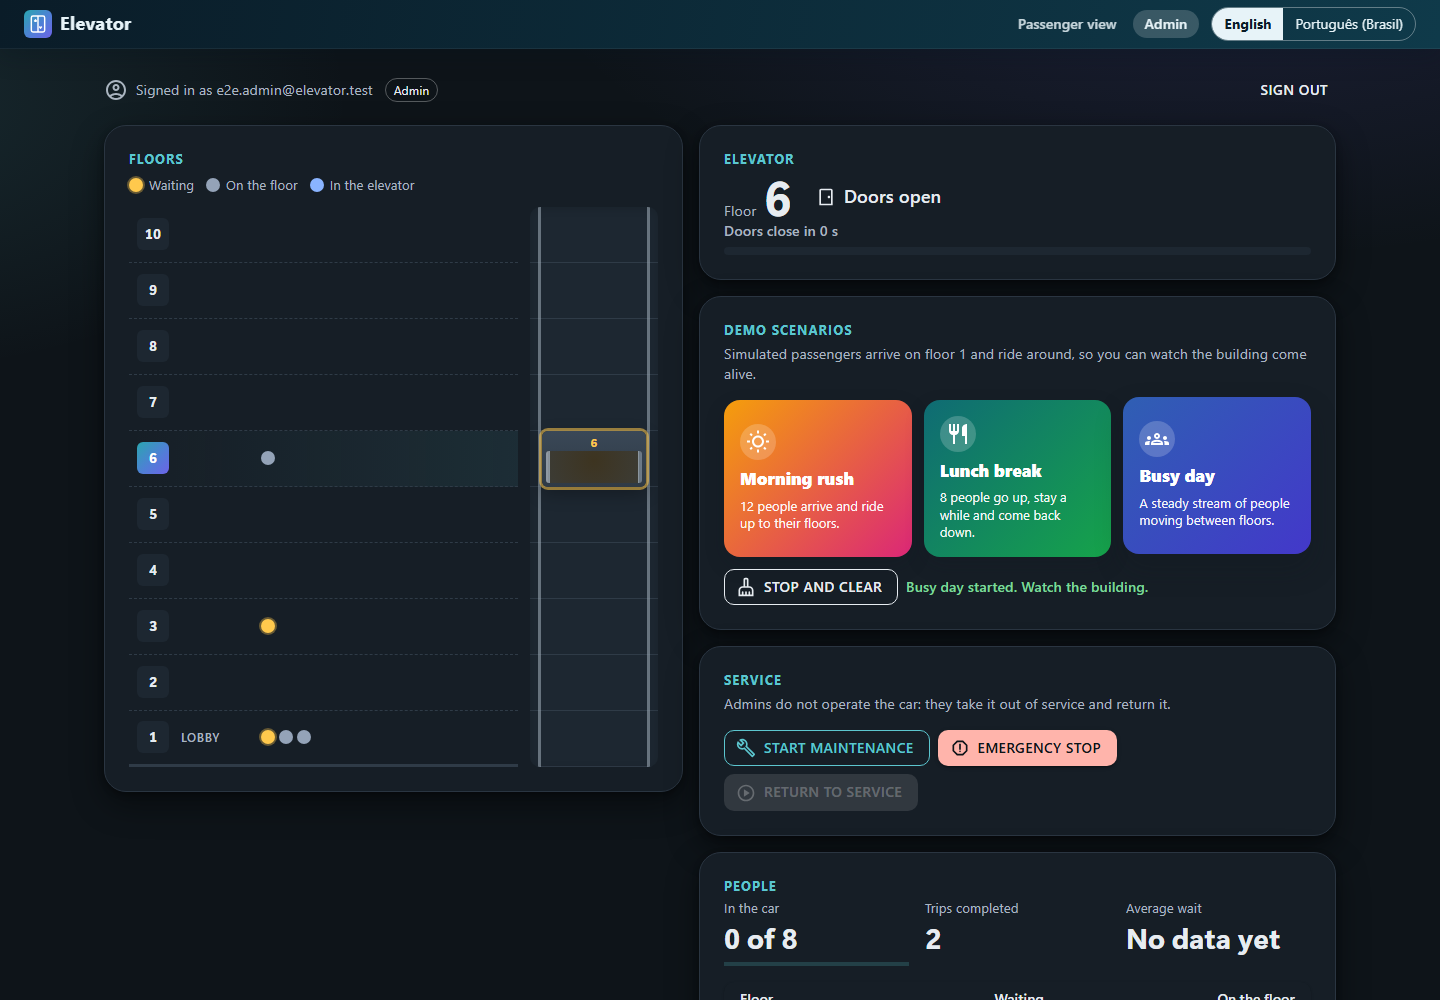
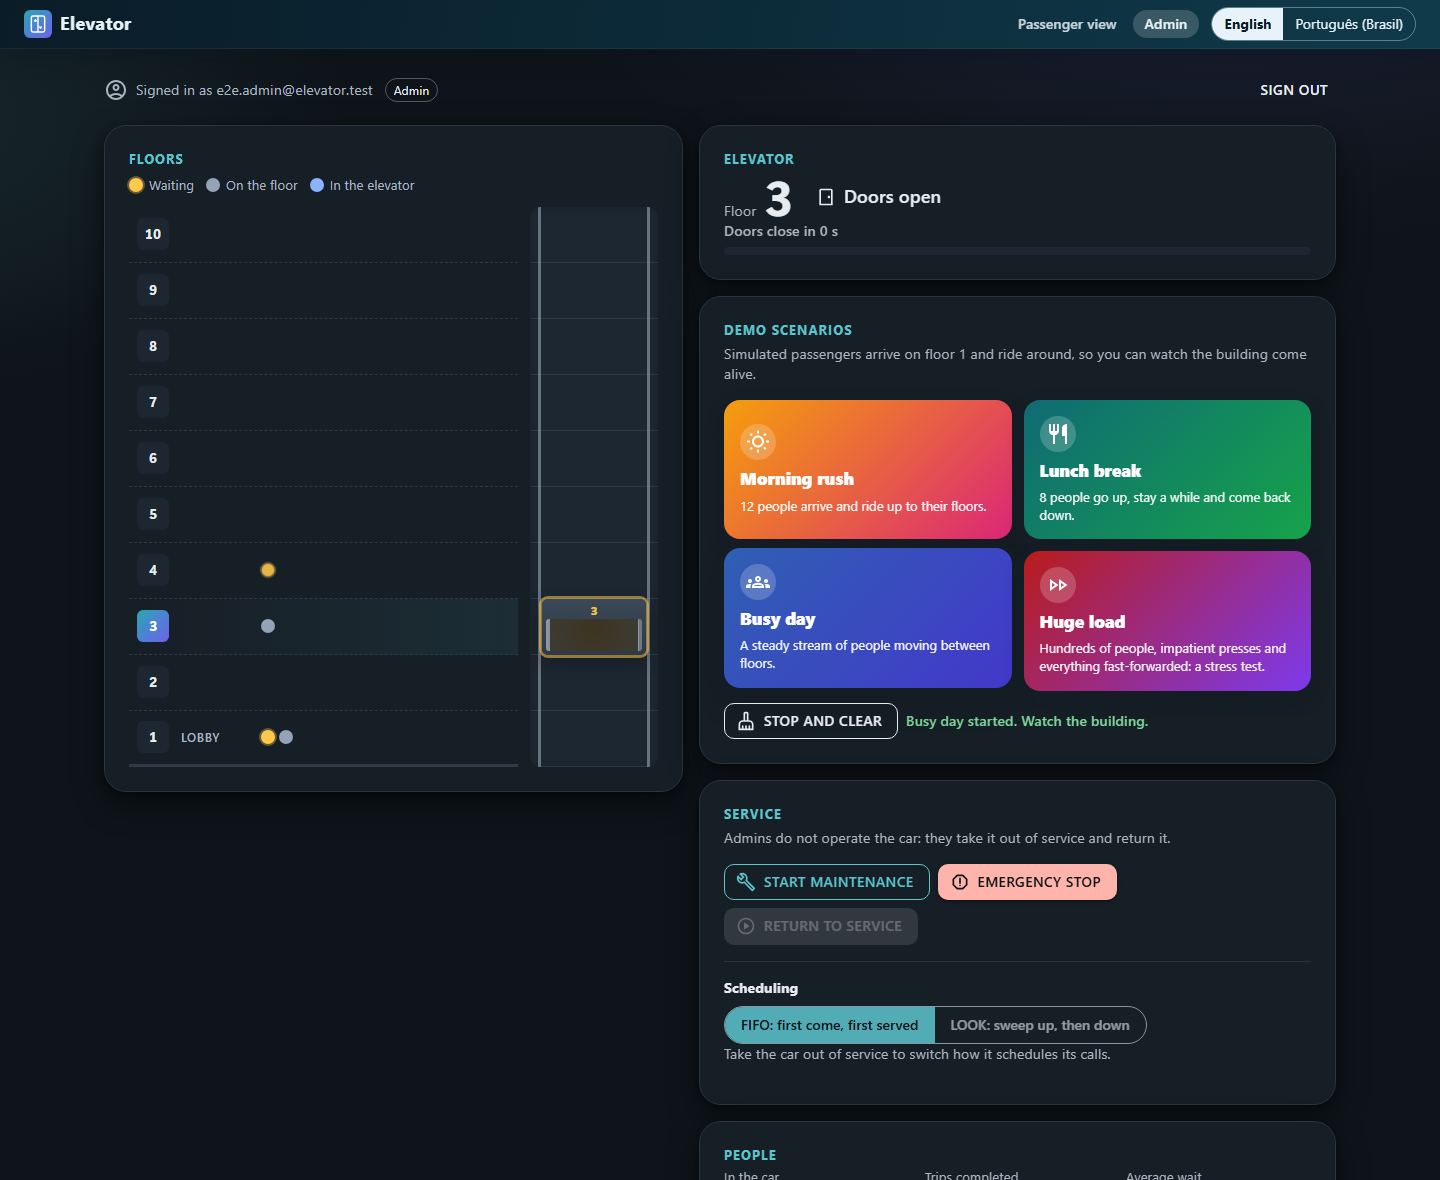
docs: refresh the README screenshots
The admin view now shows the huge load card and the FIFO/LOOK switch. The
passenger picture is taken while the doors still count down, so it never
catches the car mid-glide as it leaves.

diff --git a/tests/ElevatorSystem.E2E.Tests/ReadmeScreenshots.cs b/tests/ElevatorSystem.E2E.Tests/ReadmeScreenshots.cs
@@ -21,7 +21,7 @@ public sealed class ReadmeScreenshots(BrowserFixture fixture)
         Directory.CreateDirectory(folder);
 
         // The admin starts a busy day, so the building is full of people in every picture.
-        var admin = await fixture.NewPageAsync(viewport: new() { Width = 1440, Height = 1000 }, colorScheme: ColorScheme.Dark);
+        var admin = await fixture.NewPageAsync(viewport: new() { Width = 1440, Height = 1180 }, colorScheme: ColorScheme.Dark);
         await AdminTests.SignInAsync(admin, fixture);
         await admin.GetByTestId("demo-BusyDay").ClickAsync();
         await Expect(admin.GetByTestId("demo-message")).ToContainTextAsync("Busy day started");
@@ -36,7 +36,9 @@ public sealed class ReadmeScreenshots(BrowserFixture fixture)
         await PassengerJourneyTests.BoardAsync(passenger);
         await passenger.Locator(".car-button[data-floor='8']").ClickAsync();
         await Expect(passenger.Locator(".car-button[data-floor='8']")).ToHaveAttributeAsync("aria-pressed", "true");
-        await passenger.WaitForTimeoutAsync(800);
+        // While the doors still count down: a picture taken as the car leaves would catch it mid-glide.
+        await Expect(passenger.GetByTestId("door-countdown").First).ToBeVisibleAsync();
+        await passenger.WaitForTimeoutAsync(200);
         await passenger.ScreenshotAsync(new() { Path = Path.Combine(folder, "passenger-journey.png") });
 
         // The same journey on a phone, in Portuguese.

diff --git a/README.md b/README.md
@@ -60,12 +60,13 @@ ElevatorSystem controls an elevator serving floors 1 to 10 and gives passengers 
 ### Screenshots
 
 The admin dashboard during a busy day: simulated passengers wait, walk around and ride, while the admin watches
-the car, starts demo scenarios and controls the service.
+the car, starts demo scenarios (the huge load among them), controls the service and, with the car out of service,
+switches between FIFO and LOOK scheduling.
 
 ![The admin dashboard during a busy day, in the dark theme](docs/images/admin-dashboard.png)
 
-A passenger's journey: in the car at floor 1 with floor 8 chosen, the doors counting down, and the request queue
-served in order. On a phone, in Brazilian Portuguese and the dark theme, the same journey starts in the lobby.
+A passenger's journey: in the car among the demo crowd, floor 8 chosen, the doors counting down, and the request
+queue served in order. On a phone, in Brazilian Portuguese and the dark theme, the same journey starts in the lobby.
 
 <p>
   <img src="docs/images/passenger-journey.png" alt="A passenger in the car with floor 8 chosen and the doors counting down" width="72%">
